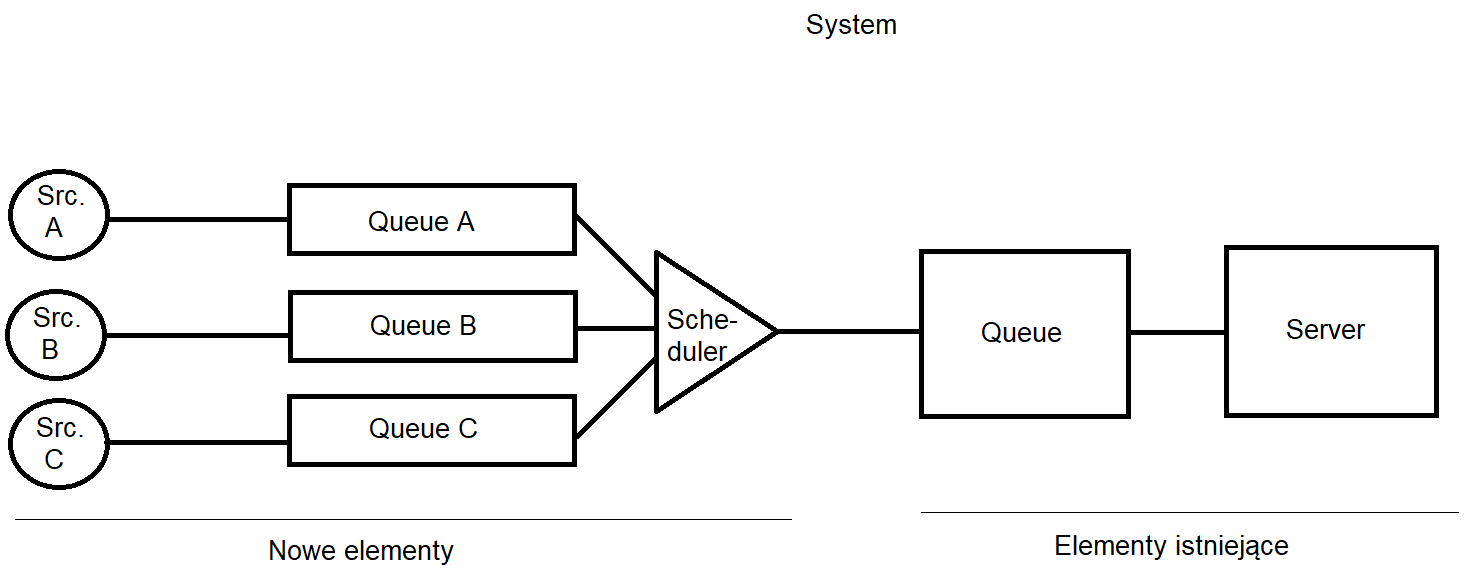
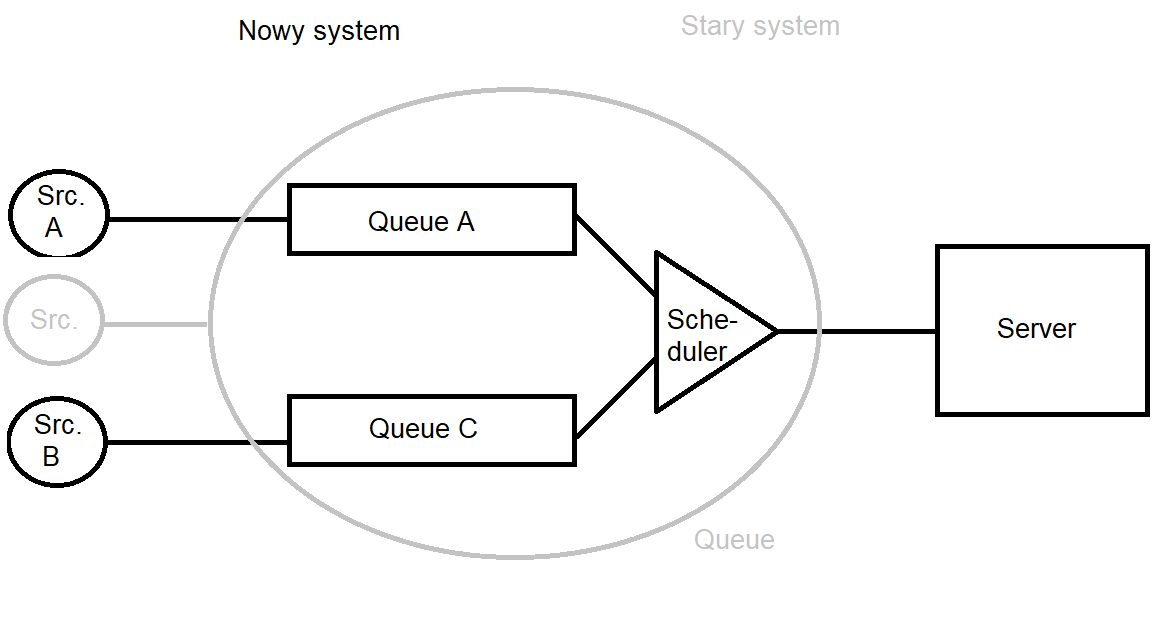
docs(stage2): update docs

diff --git a/docs/docs.md b/docs/docs.md
@@ -233,31 +233,128 @@ Zakładamy, że wszystkie pakiety mają ten sam rozmiar.
 
 ### 2.2 Nowe elementy modelu
 
-**Strumienie** - klienci nie pojawiają się jak do tej pory jako nierozróżnialne byty (jedyne co ich różniło to czas przybycia). Teraz każdy klient przybywa to systemu w ramach pewnego **strumienia**.
+**Strumienie** - teraz klienci pojawiają się w systemie w ramach jakiegoś strumienia. Strumień cechuję to, że ma swoją *wagę*, oraz że wszyscy klienci z danego strumienia mają ten sam *rozmiar*).
 
-**Źródła** - każdy ze *strumieni* ma swoje **źródło**. Przy czym *źródło* charakteryzuje się rozkładem intensywności napływu (np. wykładniczy). 
+> W symulacji wystarczą tylko dwa strumienie.
+
+**Wagi** - każdy strumień opisany jest przez swoją wagę, która odzwierciedla jego priorytetyzację w algorytmie WRR.
+
+**Rozmiar** - ma znaczenie przy obliczaniu czasu obsługi danego klienta. Teraz czas obsługi przez serwer nie jest dany rozkładem wykładniczym, a jest obliczany na podstawie **przepustowości** serwera i rozmiaru klienta.
+
+**Źródła** - każdy ze *strumieni* ma swoje **źródło**. Przy czym *źródło* charakteryzuje się rozkładem intensywności napływu (np. wykładniczy). Złożenie ruchu z kilku źródeł tworzy ruch Poissona.
 
 > Przykładowo dwa źródła mogą mieć rozkład wykładniczy, ale o różnej wartości średniej.
 
-**Wagi** - każdy strumień opisany jest przez swoją wagę, która 
+**Wagi** - każdy strumień opisany jest przez swoją wagę, która odzwierciedla jego priorytetyzację w algorytmie WRR.
 
-**Scheduler**  - klienci pojawiający się w ramach danego *strumienia* trafiają do przypisanej mu kolejki. Zadaniem **Schedulera** jest wykonywanie algorytmu WRR, który odpowiednio przenosi klientów z kolejek przypisanych strumieniom, do **kolejki właściwej**, z której trafią bezpośrednio do serwera.
+**Scheduler**  - klienci pojawiający się w ramach danego *strumienia* trafiają do przypisanej mu kolejki. Zadaniem **Schedulera** jest wykonywanie algorytmu WRR, który odpowiednio przenosi klientów z kolejek przypisanych strumieniom, do serwera obsługi.
 
 ![](img/10.png)
 
-## 2.3 Zmiany w symulacji
+Co się zmienia względem starego systemu?
 
-### Algorithm::Events
+- To, pakiety przybywają teraz z dwóch niezależnych źródeł.
 
-Teraz przybycie pakietu do głównej kolejki, nie może generować planować następnego przybycia, bo zablokowałoby by to klientów ze strumienia o najmniejszej wadze. Źródła muszą generować swoich klientów niezależnie. Dlatego zmianę uległby algorytm Algorithm::Events::Arrival
+- To, że Queue zostaje zastąpione przez dwie kolejki i Scheduler.
 
-![](BPMN/img/algorithm_event_arrival_new.png)
+Reszta pozostaje bez zmian. Tak więc powinna się zmienić jedynie:
 
-Faktycznym zdarzeniem przybycia klienta do systemu by był typ eventu FlowArrival, to na początku obsługi tego eventu generowana, by nowy event dla przybycia klienta, z tego konkretnego Flow.
+- obsługa przybycia klienta - na taką która uwzględnia strumienie
+- implementacja/środek kolejki - ale komunikacja z nią powinna pozostać nienaruszona
 
-> Wymaga, to dodania do klienta informacji z jakiego flow pochodzi. W tym momencie klient jest tworzony w momencie gdy pakiet nadejdzie do systemu (do kolejki głównej). Teraz Event::Arrival musi mieć też informację, którego flow ten event dotyczy. Dlatego należy dodać do klasy Sim::Event pole Flow, w przypadku eventu Departure przyjmowałoby by ono jakąś defaultową (nieosiągalną dla Arrival) wartość.
+### 2.3 Zmiany
 
-Algorytm FlowArrival wyglądałby tak.
+#### 2.3.1 Obsługa przybycia klienta
 
-![](BPMN/img/algorithm_event_flow_arrival.png)
+Aby zachować niezależność źródeł należy pojedyncze zdarzenie ARRIVAL zastąpić przez ARRIVAL_A, ARRIVAL_B (żeby na eventList było zawsze po jednym zdarzeniu z tych typów).
+
+Poprzednio po przybyciu sprawdzano czy server.status == FREE, 
+
+- jeśli tak pakiet trafiał od razu do obsługi. Tak też pozostanie i teraz (z tym, że Scheduler musi zmienić swój stan, ale o tym potem)
+- jeśli nie pakiet trafiał do kolejki. Tutaj zmieni się tylko to, że pakiet trafia do jednej z dwóch kolejek w zależności, do którego strumienia należy.
+
+> Skoro tworzymy klienta w momencie, kiedy znamy źródło z którego przybył, możemy dodać do klienta informację o strumieniu. Może to się przydać przy statystykach.
+
+#### 2.3.2 Implementacja/środek kolejki
+
+Wcześniej była pojedyncza kolejka, która używana była tylko w dwóch przypadkach:
+
+- podczas ARRIVAL gdy server był BUSY - client był do niej dodawany
+- podczas DEPARTURE, gdy server pobierał do obsługi kolejnego klienta - kolejka zwracała następny pakiet do obsługi
+
+Teraz będzie tak samo, lecz zamiast dodawać/brać do/z Queue, będziemy dodawać/brać do/z Scheduler.
+
+Scheduler w sobie będzie miał dwie kolejki, dzięki którym będzie wykonywał WRR.
+
+> Także programistycznie wychodzi, że Scheduler będzie implementował ten sam interfejs co Queue
+
+Czyli z punktu widzenia systemu teraz zamiast Queue, będzie Scheduler (i cały WRR jest na jego barkach).
+
+### 2.4 Klasy
+
+Po pierwsze pojawi się nowa klasa statyczna  `System::Flows`, o polach `weight_A`, `weight_B` i `size_A`, `size_B` , `mean_A`, `mean_B` określające wagi, 1/λ rozkładu i rozmiary klientów danego flow.
+
+W klasie `System::Client` pojawi się pole `flow` przyjmujące wartości z enuma `flowEnum {A, B}`.
+
+W klasie `System::Server` pojawi się pole `capacity` typu określające przepustowość (na jej podstawie oraz rozmiaru klienta liczony będzie czas obsługi).
+
+Metoda `Algorithm::LibDeparture.run()` będzie teraz przyjmowała dwa argumenty `capacity` i `size`, i na tej podstawie zwracała czas obsługi klienta.
+
+Metoda `Algorithm::LibArrival.run()` będzie przyjmowała wartość `MEAN`, która będzie podawana zgodnie z danym flow.
+
+Powstanie nowa klasa `System::Scheduler`, który zastąpi `System::Queue`. Polami tej klasy będą `queue_A` i `queue_B` typu `System::Queue` oraz zmienna `cycle` określająca stan cyklu Schedulera.
+
+### 2.5 Implementacja Schedulera
+
+Scheduler musi implementować algorytm WRR (Weighted Round Robin) oraz zachowywać się tak jak `System::Queue`.
+
+### 2.5.1 Wyjaśnienie WRR
+
+Zasadę działania Schedulera łatwo wyjaśnić na konkretnych wagach. Załóżmy wagi:
+
+1 dla flow A
+
+2 dla flow B
+
+Długość cyklu w tym przypadku wynosi `3` (suma wag). 
+
+Mamy zmienną `cycle`, która określa moment cyklu. Może ona przyjmować wartości `1,2,3`. 
+
+Ogólnie Scheduler ma zwracać serwerowi klienta do obsługi i cała prostota rozwiązania polega na tym, że zwraca on klienta z kolejki, która jest określona na podstawie zmiennej `cycle`.
+
+Funkcja, która opisuje z której kolejki zwrócić pakiet, gdzie parametrem jest `cycle` wygląda następująco:
+
+- `queue_A`, gdy `cycle == 1 || 2`
+- `queue_B`, gdy `cycle == 3`
+
+Następnie, po zwróceniu klienta inkrementuje on zmienną `cycle` (`cycle++`).
+
+Gdy jednak kolejka, na którą wskazuje `cycle` jest pusta. Scheduler zwraca klienta z drugiej kolejki przeskakując odpowiednio zmienną `cycle`, tak aby wskazać, że zwrócił właśnie klienta z tej kolejki. 
+
+> Czyli gdy `cycle` wskazuje na `queue_A`, ale jest ona pusta to zwraca ` queue_B` i zmienną `cycle` ustawia na `3+1=4`.
+>
+> Zaś gdy `cycle` wskazuje na `queue_B`, ale jest ona pusta to zwraca `queue_A`  i zmienną `cycle` ustawia na `1+1=2`.
+>
+> Takie coś symuluje to, że WRR omija puste kolejki, ale zalicza to do przebiegnięcia cyklu.
+
+### 2.5.3 Kiedy WRR jest uruchamiany?
+
+Wtedy gdy Scheduler ma przekazać klienta serwerowi. Czyli dwie sytuacje
+
+- Do systemu przybył klient i server jest FREE                ---> Event Arrival
+- Server skończył obsługę klienta i pyta o następnego ---> Event Departure
+
+### 2.6 Nowe algorytmy zdarzeniowe
+
+### 2.6.1 Arrival_A, Arrival_B
+
+![](BPMN/img/stage2/algorithm_event_arrival_a.png)
+
+#### 2.6.1 Departure
+
+![](BPMN/img/stage2/algorithm_event_departure_new.png)
+
+### 2.7 Nowy diagram klas
+
+![](UML/stage2/class_diagram.png)
 
